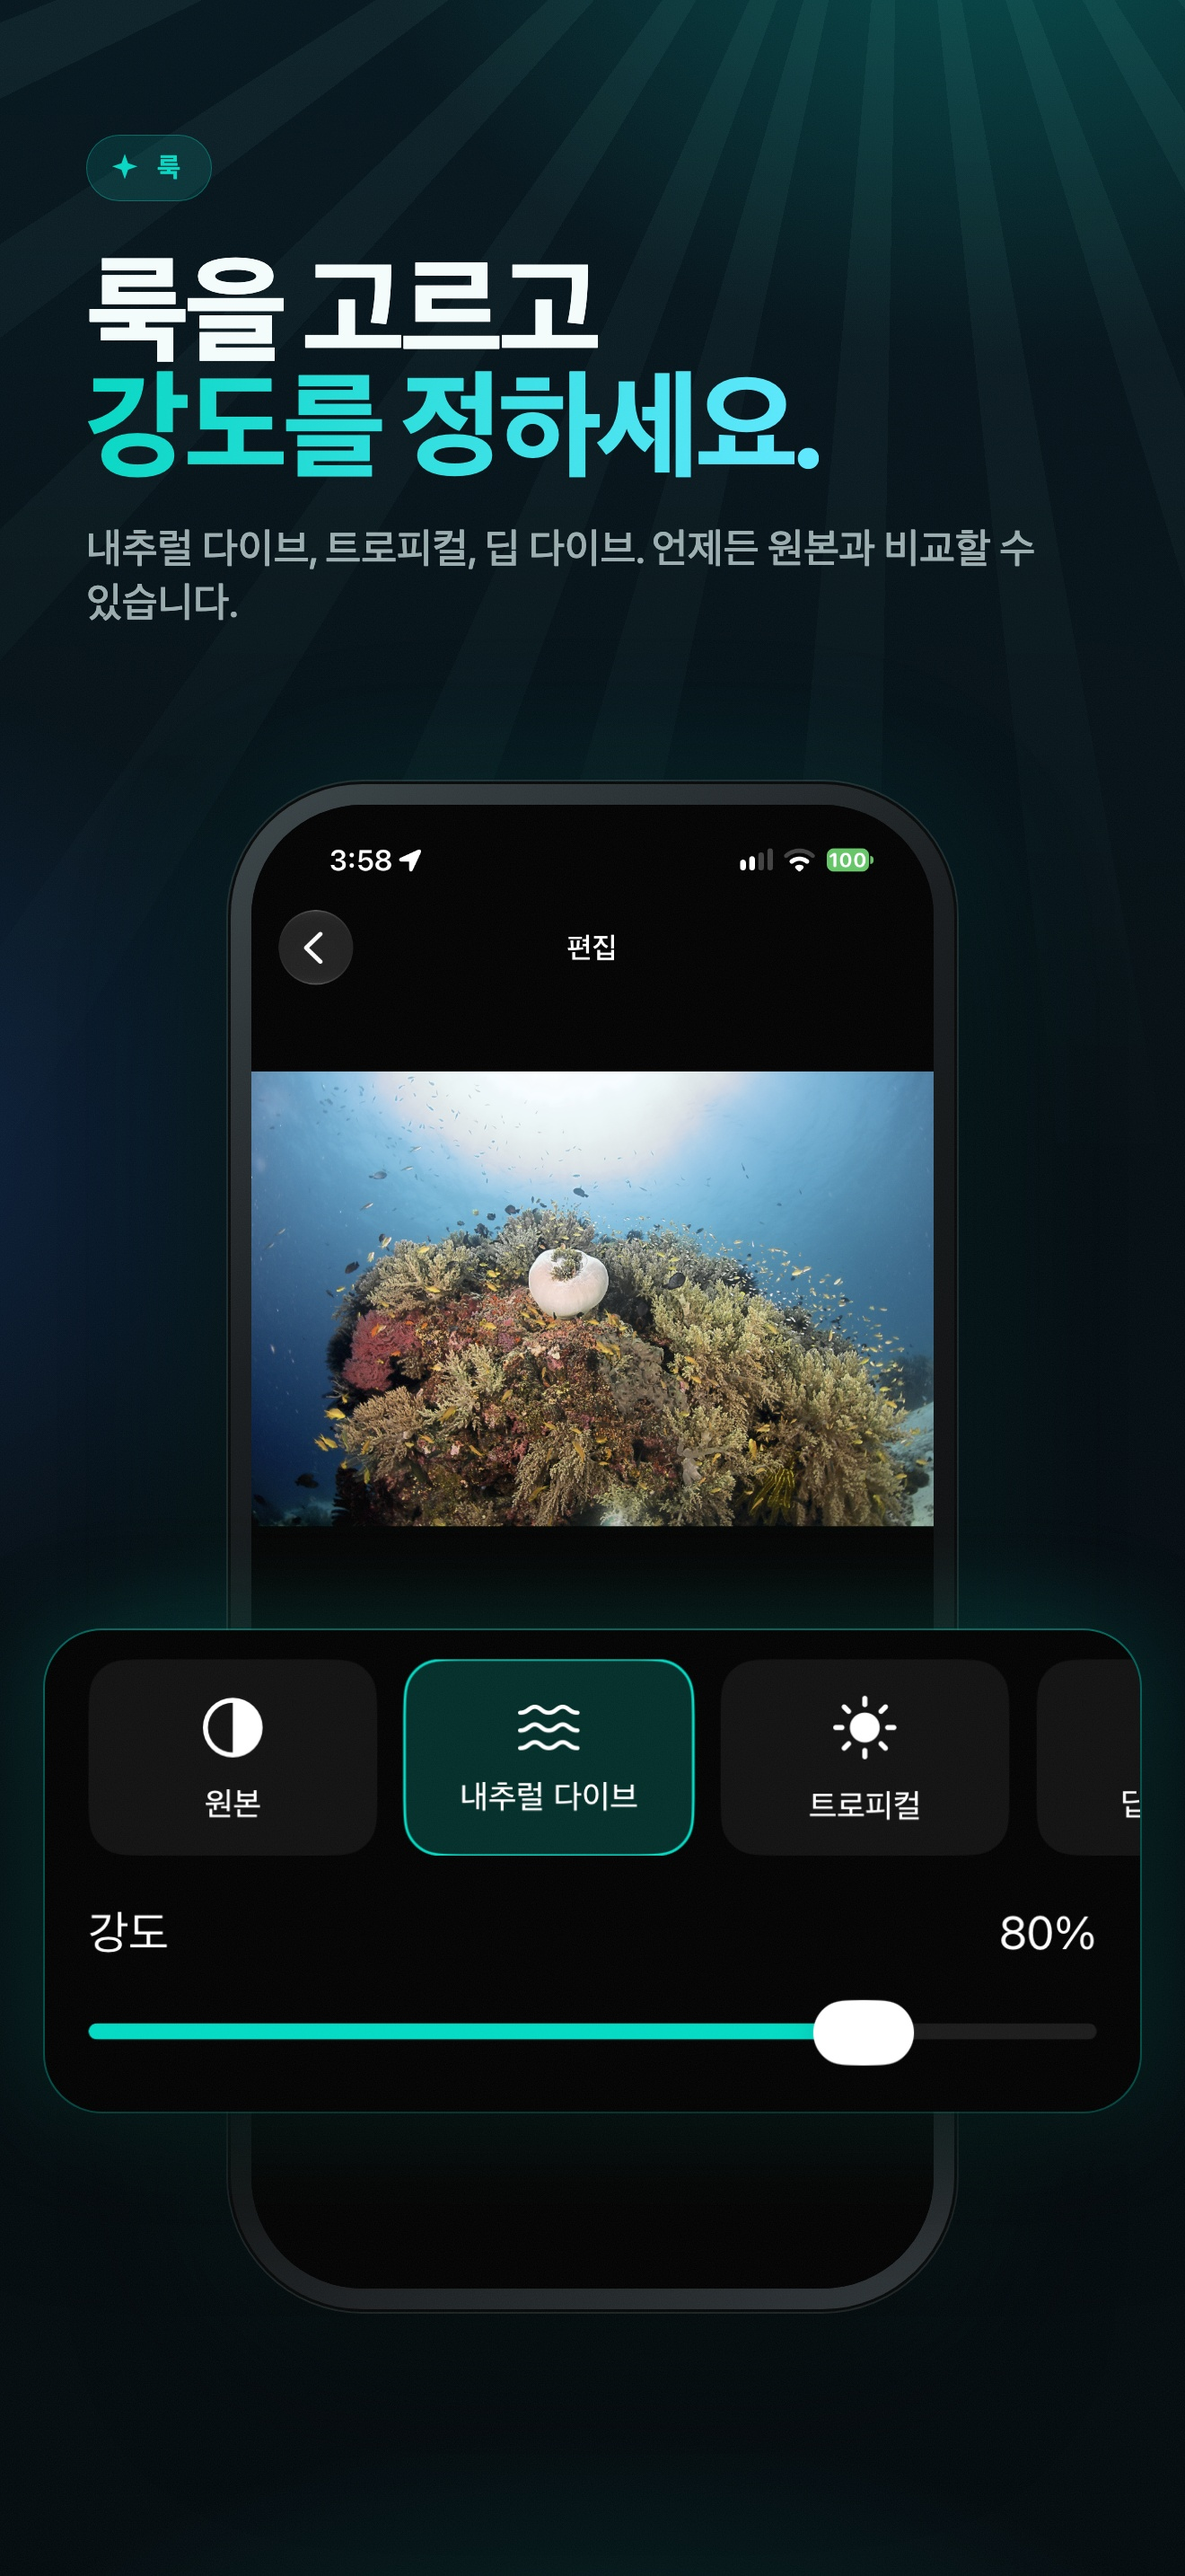
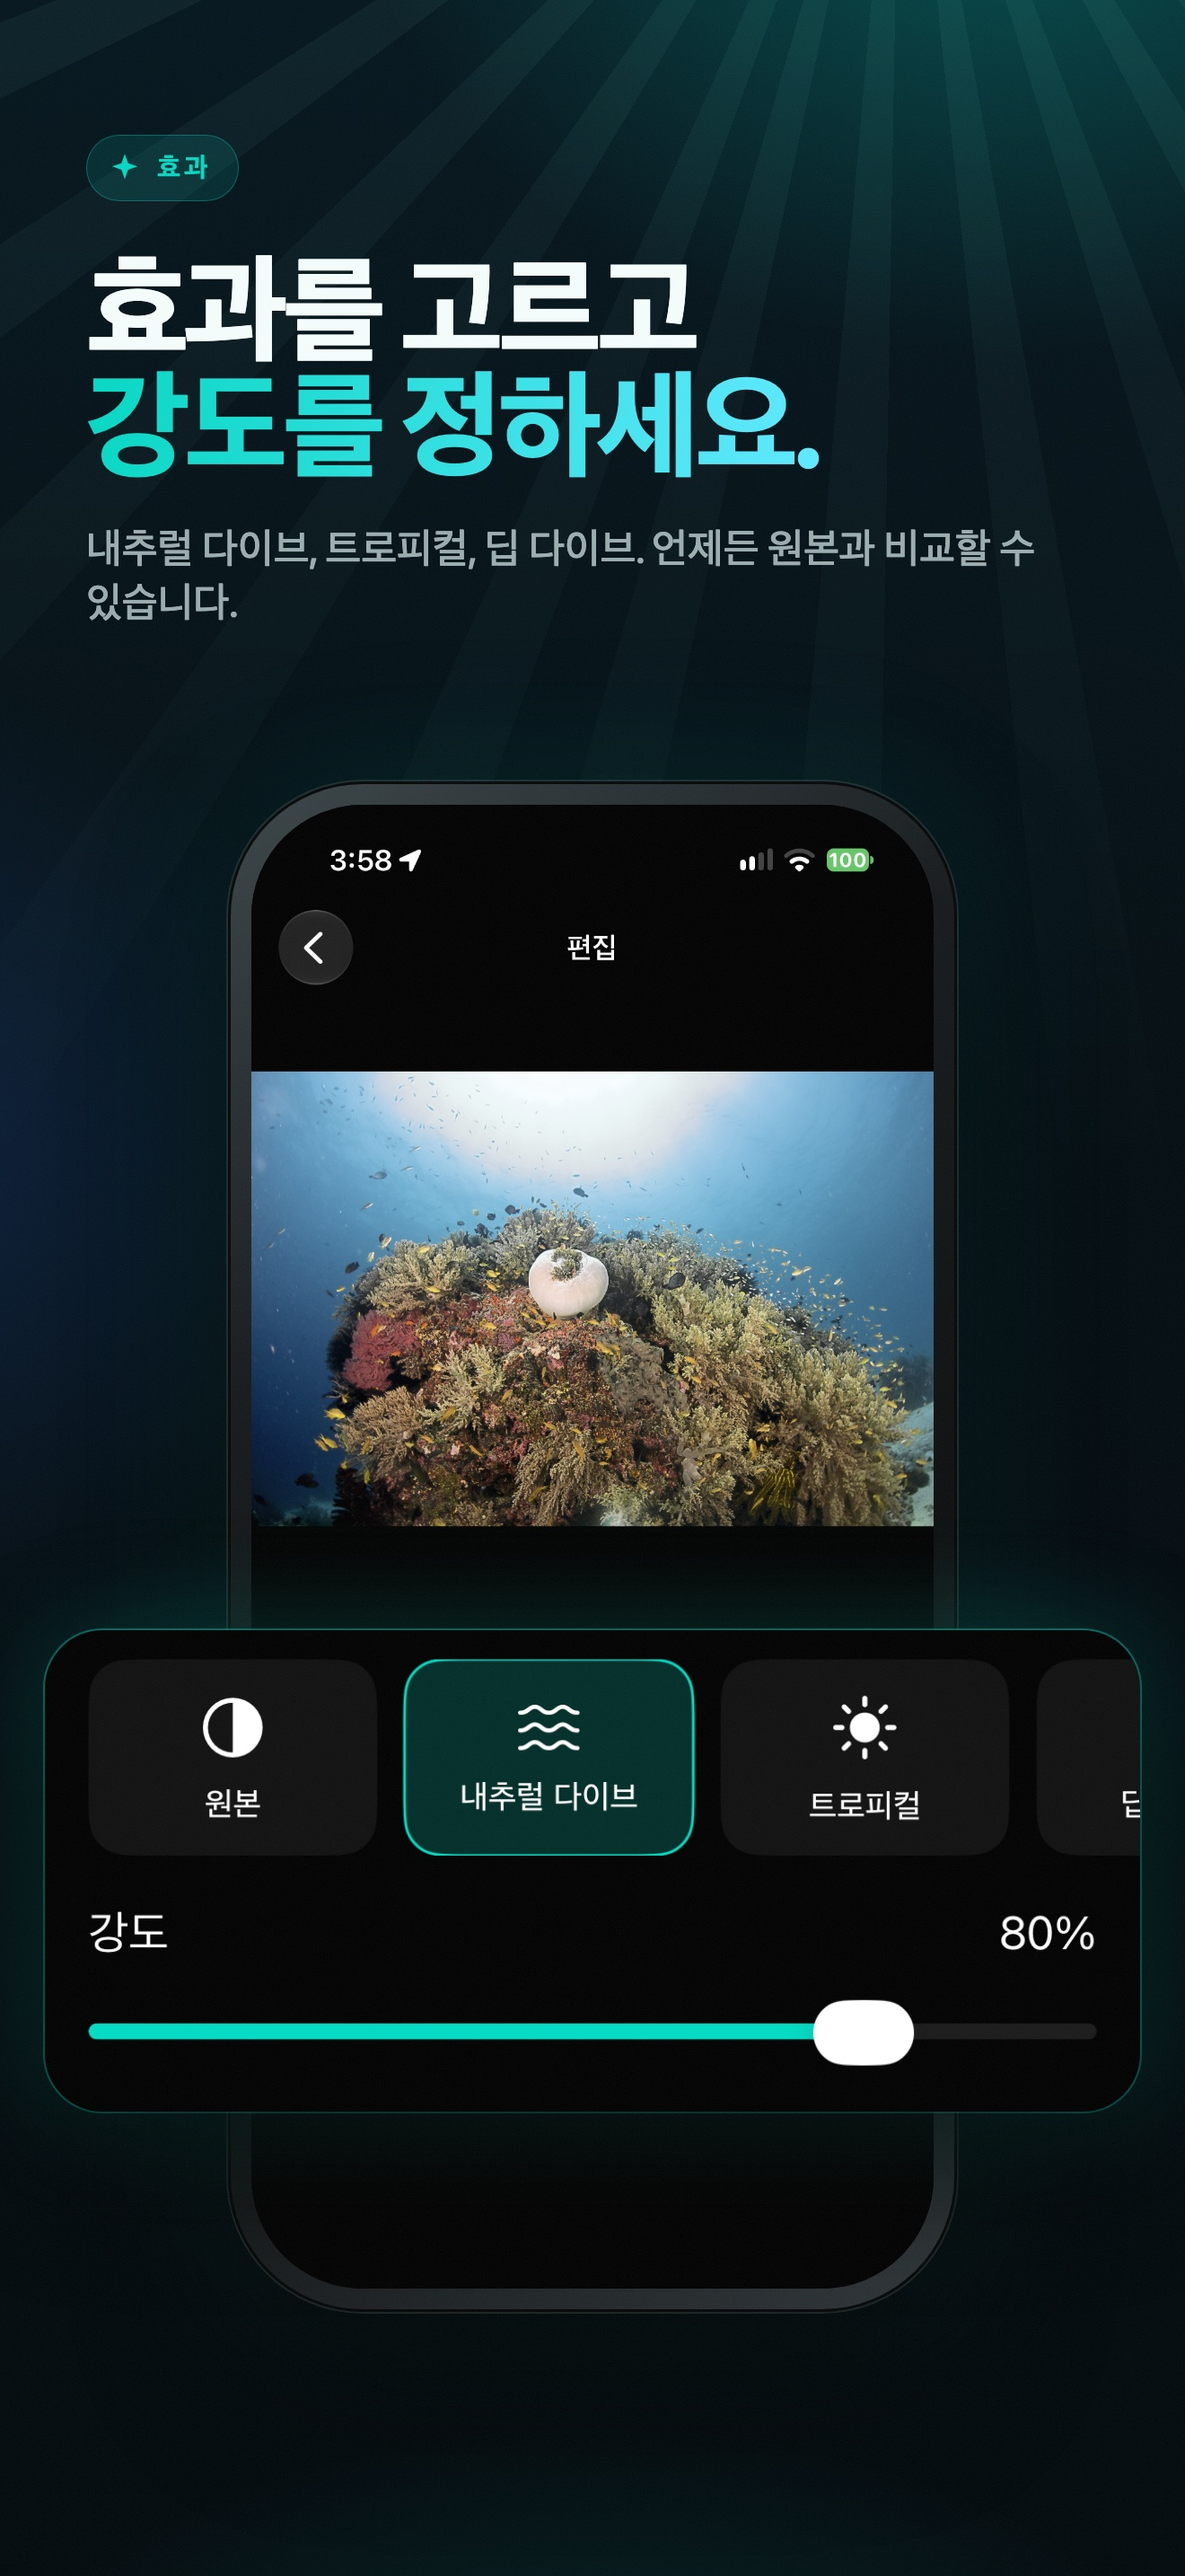
Call the Korean looks 효과 in the store copy, as the app UI does
Jake chose the UI word over 룩. The Korean description and screenshot 04 now say 효과.

Changed region(s): [[0.0621, 0.0621, 0.497, 0.1552], [0.497, 0.0931, 0.5902, 0.1552]]

diff --git a/docs/AppStoreMetadata.md b/docs/AppStoreMetadata.md
@@ -55,12 +55,12 @@ UnderBlue is designed for recreational diving memories. It is not a scientific c
 
 UnderBlue는 수중 사진과 영상에서 사라진 색과 선명함을 자연스럽게 되살립니다.
 
-사진이나 영상을 선택하고 원하는 룩을 고른 뒤 원본과 비교하세요. 룩의 강도를 조절하거나, ‘사용자’ 룩에서 밝기·대비·채도·선명도·색온도를 직접 맞출 수 있습니다. 내부적으로는 깊이 인식 수중 복원 기술을 사용해 색 손실과 후방 산란을 줄이면서도 결과가 과장되거나 영상의 색이 흔들리지 않도록 처리합니다.
+사진이나 영상을 선택하고 원하는 효과를 고른 뒤 원본과 비교하세요. 효과의 강도를 조절하거나, ‘사용자’ 효과에서 밝기·대비·채도·선명도·색온도를 직접 맞출 수 있습니다. 내부적으로는 깊이 인식 수중 복원 기술을 사용해 색 손실과 후방 산란을 줄이면서도 결과가 과장되거나 영상의 색이 흔들리지 않도록 처리합니다.
 
 주요 기능:
 
-• 내추럴 다이브, 트로피컬, 딥 다이브 룩
-• 조절 슬라이더 5개를 갖춘 ‘사용자’ 룩
+• 내추럴 다이브, 트로피컬, 딥 다이브 효과
+• 조절 슬라이더 5개를 갖춘 ‘사용자’ 효과
 • 깊이 인식 사진·영상 복원
 • 프레임마다 색이 깜빡이지 않는 안정적인 영상 보정
 • UnderBlue Pro에서 원본 해상도 및 4K 영상 내보내기

diff --git a/AppStoreAssets/Screenshots/README.md b/AppStoreAssets/Screenshots/README.md
@@ -32,7 +32,7 @@ Nobody on the team reads Japanese, Chinese or Spanish. An independent reviewer c
 
 Other languages: `scripts/app_store_screenshots/captions.json`.
 
-Store copy uses the app's own UI words. The app translates "Look" as 効果 (ja), 效果 (zh) and Efecto (es). The Korean UI says 효과, but the Korean captions and description still say 룩.
+Store copy uses the app's own UI words. The app translates "Look" as 효과 (ko), 効果 (ja), 效果 (zh) and Efecto (es).
 
 ## Regenerate
 
